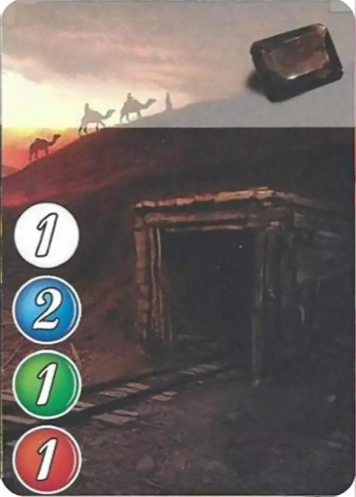
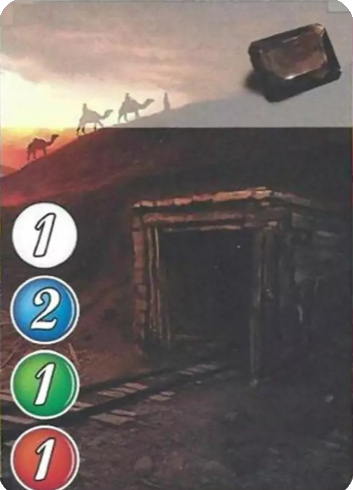
cropping cards + added animation on hover!!!!

diff --git a/src/app/visualizers/GameCardMatrixVisualizer.java b/src/app/visualizers/GameCardMatrixVisualizer.java
@@ -1,11 +1,13 @@
 package app.visualizers;
 
 import app.constants.ObjectLocations;
+import app.constants.Sizes;
 import app.objects.Card;
 import app.objects.CardDeck;
 import jGameLib.core.GameState;
 import jGameLib.ui2d.input.MouseEvent;
 import jGameLib.ui2d.input.UserInputHandlerComponent;
+import jGameLib.ui2d.input.UserInputState;
 import jGameLib.ui2d.rendering.UIEntity;
 import jGameLib.ui2d.rendering.UIRendererRootComponent;
 import jGameLib.ui2d.utils.HoverDetectionComponent;
@@ -58,7 +60,7 @@ public class GameCardMatrixVisualizer {
                                     } catch (Exception e) {
                                         throw new RuntimeException(e);
                                     }
-                                    b.setSize(75, 100);
+                                    b.setSize(Sizes.ACTIVE_CARD.location);
                                 }
                         )
                         .addComponents(
@@ -68,16 +70,40 @@ public class GameCardMatrixVisualizer {
                                         cardMatrix.get(i).get(j).getImage(),
                                 new HoverDetectionComponent(),
                                 new UserInputHandlerComponent() {
+                                    private int startTime;
+
                                     @Override
                                     protected void onMouseDown(MouseEvent me) {
-                                        if (this.getEntity().getComponent(HoverDetectionComponent.class).contains(me.position()))
+                                        if (this.getEntity().getComponent(HoverDetectionComponent.class).contains(me.position())) {
                                             cardsClicked.get(finalI).set(finalJ, true);
+                                        }
                                     }
 
                                     @Override
                                     protected void onMouseUp(MouseEvent me) {
                                         if (this.getEntity().getComponent(HoverDetectionComponent.class).contains(me.position()))
                                             cardsClicked.get(finalI).set(finalJ, false);
+                                    }
+
+                                    @Override
+                                    protected void update(UserInputState state) {
+                                        if (this.getEntity().getComponent(HoverDetectionComponent.class).contains(state.getMousePosition())) {
+                                            if (startTime == -1) startTime = 0;
+                                            else startTime++;
+                                            this.getEntity().cast(UIEntity.class).withBoundingBox(b -> {
+                                                if (startTime >= 10) b.setSize(200, 300);
+                                                else
+                                                    b.setSize(150 + (double) (startTime) / 0.2, 200 +  startTime / 0.1);
+                                                b.setRenderOrder(100);
+                                            });
+                                        } else {
+                                            startTime = -1;
+                                            this.getEntity().cast(UIEntity.class).withBoundingBox(b -> {
+                                                b.setSize(150, 200);
+                                                b.setRenderOrder(0);
+                                            });
+                                        }
+
                                     }
                                 }
                         ).cast();

diff --git a/src/app/visualizers/ChipStackVisualizer.java b/src/app/visualizers/ChipStackVisualizer.java
@@ -1,6 +1,7 @@
 package app.visualizers;
 
 import app.constants.ObjectLocations;
+import app.constants.Sizes;
 import app.objects.ChipStack;
 import jGameLib.core.GameState;
 import jGameLib.ui2d.input.MouseEvent;
@@ -16,7 +17,7 @@ public class ChipStackVisualizer {
             new UIEntity(state)
                     .withBoundingBox(
                             b -> {
-                                b.setSize(25, 25);
+                                b.setSize(Sizes.INACTIVE_CHIP.location);
                                 try {
                                     b.setAbsolutePosition(
                                             ObjectLocations.INACTIVE_PLAYER_CHIPS.getInactiveLocation(order, stack.getValue().getColor(), finalI)
@@ -40,7 +41,7 @@ public class ChipStackVisualizer {
             new UIEntity(state)
                     .withBoundingBox(
                             b -> {
-                                b.setSize(40, 40);
+                                b.setSize(Sizes.ACTIVE_CHIP.location);
                                 try {
                                     b.setAbsolutePosition(
                                             ObjectLocations.ACTIVE_PLAYER_CHIPS.getActiveLocation(stack.getValue().getColor(), finalI)

diff --git a/src/app/visualizers/CardStackVisualizer.java b/src/app/visualizers/CardStackVisualizer.java
@@ -1,6 +1,7 @@
 package app.visualizers;
 
 import app.constants.ObjectLocations;
+import app.constants.Sizes;
 import app.objects.Card;
 import app.objects.CardStack;
 import jGameLib.animation.AnimationComponent;
@@ -19,7 +20,7 @@ public class CardStackVisualizer {
             new UIEntity(state)
                     .withBoundingBox(
                             b -> {
-                                b.setSize(50, 75);
+                                b.setSize(Sizes.INACTIVE_CARD.location);
                                 try {
                                     b.setAbsolutePosition(
                                             ObjectLocations.INACTIVE_PLAYER_CARDS.getInactiveLocation(order, stack.getColor(), finalI)
@@ -44,7 +45,7 @@ public class CardStackVisualizer {
             new UIEntity(state)
                     .withBoundingBox(
                             b -> {
-                                b.setSize(75, 100);
+                                b.setSize(Sizes.ACTIVE_CARD.location);
                                 try {
                                     b.setAbsolutePosition(
                                             ObjectLocations.ACTIVE_PLAYER_CARDS.getActiveLocation(stack.getColor(), finalI)

diff --git a/src/app/constants/ObjectLocations.java b/src/app/constants/ObjectLocations.java
@@ -49,21 +49,21 @@ public enum ObjectLocations {
         if (this == INACTIVE_NOBLE_LOCATIONS) {
             baseLocation = baseLocation.plus(0, order * 325);
         }
-        baseLocation = baseLocation.plus(25 * index, 0);
+        baseLocation = baseLocation.plus(120 * index, 0);
         return baseLocation;
     }
 
     public Vec2 getMatrixLocation(int i, int j) throws Exception {
         if (this != GAME_CARD_MATRIX) throw new Exception("Attempting to get matrix location of a non matrix location");
-        Vec2 baseLocation = new Vec2(-300, -300);
-        baseLocation = baseLocation.plus(j * 100, i * 200);
+        Vec2 baseLocation = new Vec2(-600, -300);
+        baseLocation = baseLocation.plus(j * 160, i * 225);
         return baseLocation;
     }
 
     public Vec2 getChipLocation(Color color, int index) throws Exception {
         Vec2 baseLocation;
         if (this == ObjectLocations.GAME_CHIPS) {
-            baseLocation = new Vec2(-400, 400);
+            baseLocation = new Vec2(-760, 400);
         } else {
             throw new Exception("Attempting to get game chip location");
         }

diff --git a/src/app/game/Game.java b/src/app/game/Game.java
@@ -8,6 +8,7 @@ import app.objects.ChipStack;
 import app.objects.Noble;
 import app.visualizers.GameVisualizer;
 import jGameLib.core.GameState;
+import jGameLib.util.Pair;
 
 import java.util.*;
 
@@ -47,12 +48,20 @@ public class Game {
         Set<Integer> nobleIDs = new HashSet<>();
         while (nobleIDs.size() < 5) {
             int x = (int) (Math.random() * 10);
-            nobles.add(new Noble(x));
             nobleIDs.add(x);
         }
+        for (int i : nobleIDs) nobles.add(new Noble(i));
     }
 
     public void addGame(GameState state) {
         visualizer.addAllEntities(state);
+    }
+
+    public Pair<Integer, Integer> getClickedCard() {
+        return visualizer.getCardClicked();
+    }
+
+    public int getClickedChipStack() {
+        return visualizer.getChipStackClicked();
     }
 }

diff --git a/src/app/visualizers/HandVisualizer.java b/src/app/visualizers/HandVisualizer.java
@@ -2,6 +2,7 @@ package app.visualizers;
 
 import app.constants.Color;
 import app.constants.ObjectLocations;
+import app.constants.Sizes;
 import app.objects.CardStack;
 import app.objects.ChipStack;
 import app.objects.Noble;
@@ -53,6 +54,7 @@ public class HandVisualizer {
             new UIEntity(state)
                     .withBoundingBox(
                             b -> {
+                                b.setSize(Sizes.NOBLE.location);
                                 try {
                                     b.setAbsolutePosition(
                                             ObjectLocations.INACTIVE_NOBLE_LOCATIONS.getNobleLocation(order, finalI)

diff --git a/src/app/visualizers/CardDeckVisualizer.java b/src/app/visualizers/CardDeckVisualizer.java
@@ -1,6 +1,7 @@
 package app.visualizers;
 
 import app.constants.ObjectLocations;
+import app.constants.Sizes;
 import jGameLib.core.GameState;
 import jGameLib.ui2d.rendering.UIEntity;
 import jGameLib.ui2d.rendering.UIRendererRootComponent;
@@ -24,7 +25,7 @@ public class CardDeckVisualizer {
                             } catch (Exception e) {
                                 throw new RuntimeException(e);
                             }
-                            b.setSize(75, 100);
+                            b.setSize(Sizes.ACTIVE_CARD.location);
                         }
                 )
                 .addComponents(

diff --git a/src/app/states/TestState.java b/src/app/states/TestState.java
@@ -2,6 +2,7 @@ package app.states;
 
 import app.game.Game;
 import jGameLib.core.GameState;
+import jGameLib.util.Pair;
 
 public class TestState extends GameState {
     private final Game game;
@@ -9,5 +10,11 @@ public class TestState extends GameState {
     public TestState() {
         game = new Game();
         game.addGame(this);
+    }
+
+    @Override
+    protected void onUpdate() {
+        Pair<Integer, Integer> clicked = game.getClickedCard();
+        if (clicked != null) System.out.println("row: " + clicked.a() + " col: " + clicked.b());
     }
 }

diff --git a/src/app/constants/Sizes.java b/src/app/constants/Sizes.java
@@ -1,0 +1,17 @@
+package app.constants;
+
+import jGameLib.util.math.Vec2;
+
+public enum Sizes {
+    INACTIVE_CARD(75, 100),
+    ACTIVE_CARD(150, 200),
+    NOBLE(150, 150),
+    INACTIVE_CHIP(75, 75),
+    ACTIVE_CHIP(100, 100);
+
+    public final Vec2 location;
+
+    Sizes(int width, int height) {
+        location = new Vec2(width, height);
+    }
+}
